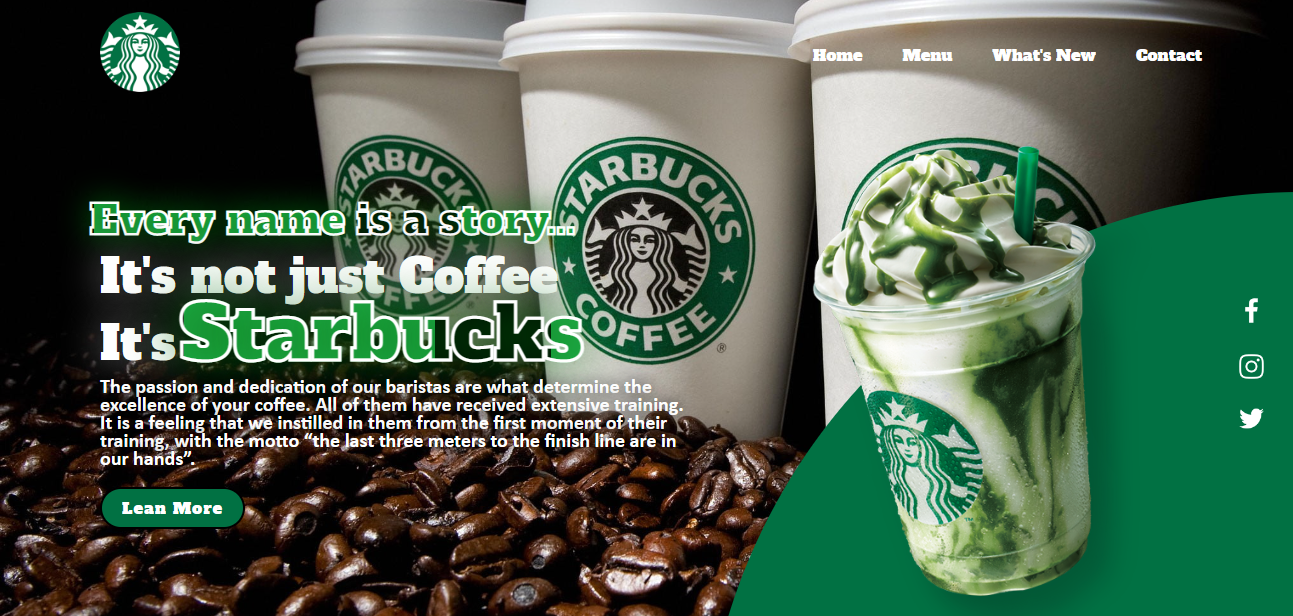
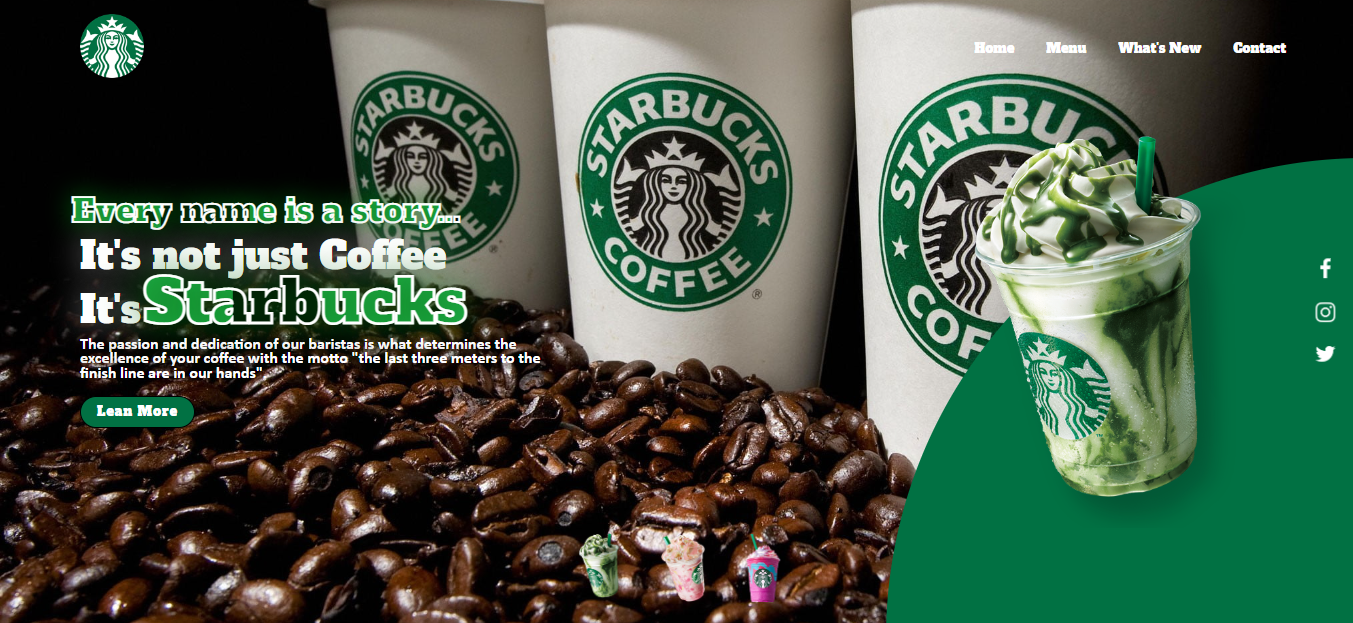
css menu active

diff --git a/main.css b/main.css
@@ -206,7 +206,11 @@ header ul li a:hover{
         background-size: 30px;
         background-position: center;
         background-repeat: no-repeat;
-        filter: invert(11);
+        
+        z-index: 11;
+        background-color: rgb(0, 0, 0);
+        text-shadow:  rgb(255, 255, 255) 0 0.0em 0.80em;
+        box-shadow:rgb(253, 253, 253) 0 0.0em 0.60em;
     }
     .toggle.active{
         position: fixed;
@@ -226,7 +230,7 @@ header ul li a:hover{
         justify-content: center;
         align-items: center;
         flex-direction: column;
-        background: #fff;
+        background: #000000;
         z-index: 10;
     }
     header ul li a{
@@ -266,5 +270,7 @@ header ul li a:hover{
         width: 50px;
         border-top-right-radius: 5px;
         border-bottom-left-radius: 5px;
+        border: 2px solid #000000;
+        box-shadow:rgb(253, 253, 253) 0 0.0em 0.60em;
     }
 }

diff --git a/index.html b/index.html
@@ -25,7 +25,7 @@
             <div class="textBox">
                 <h1>Every name is a story...</h1>
                 <h2>It's not just Coffee<br>It's <span>Starbucks</span></h2>
-                <p>The passion and dedication of our baristas are what determine the excellence of your coffee. All of them have received extensive training. It is a feeling that we instilled in them from the first moment of their training, with the motto “the last three meters to the finish line are in our hands”.</p>
+                <p>The passion and dedication of our baristas is what determines the excellence of your coffee with the motto "the last three meters to the finish line are in our hands".</p>
                 <a href="#">Lean More</a>
             </div>
             <div class="imgBox">
